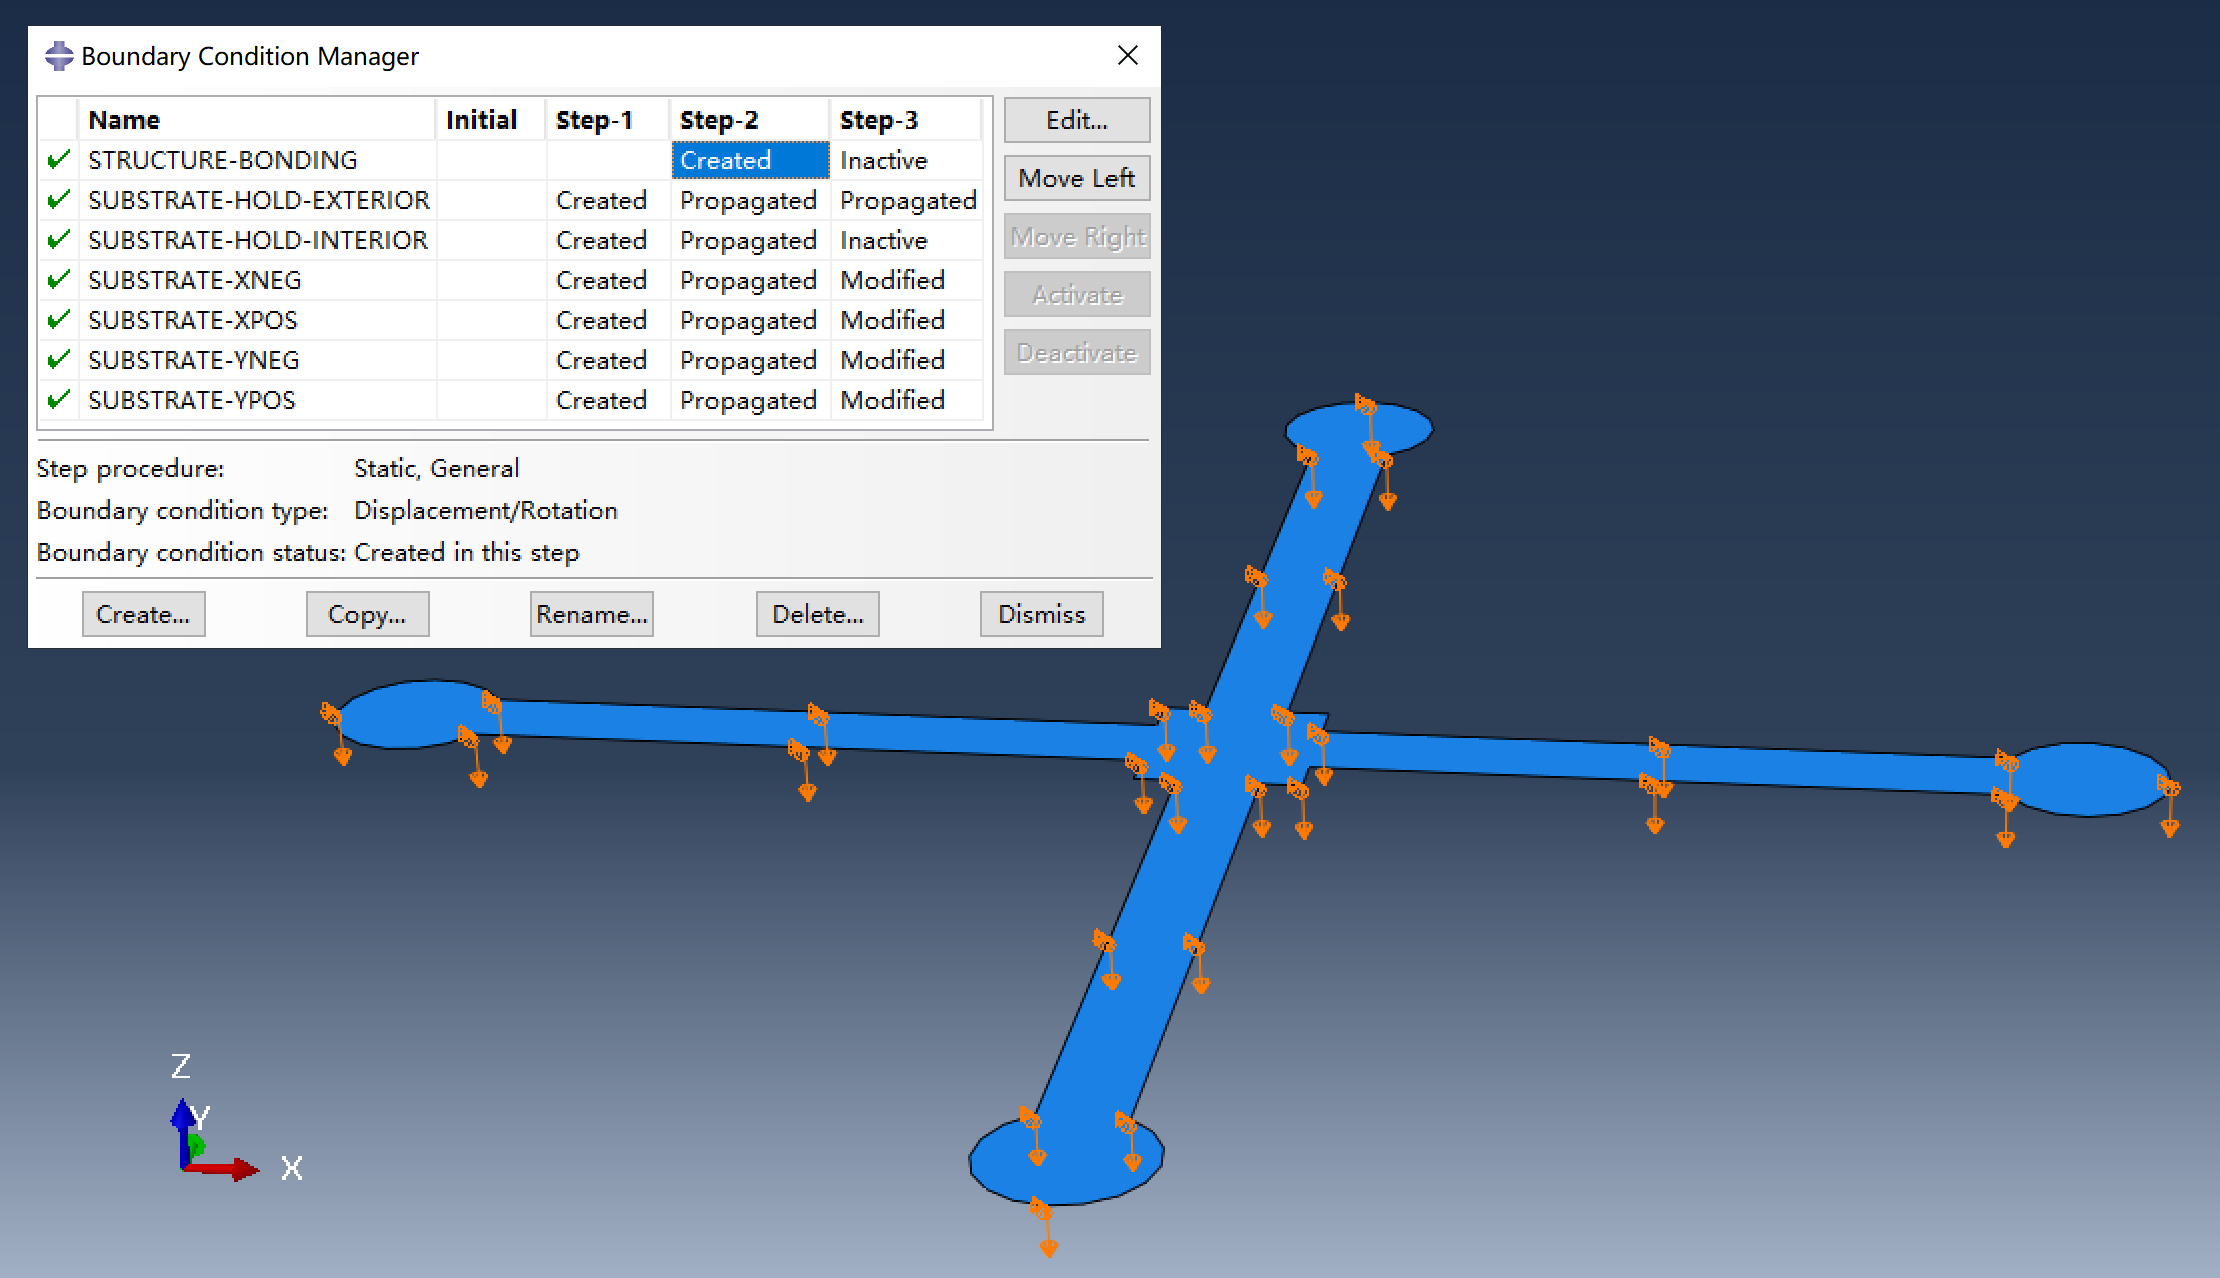
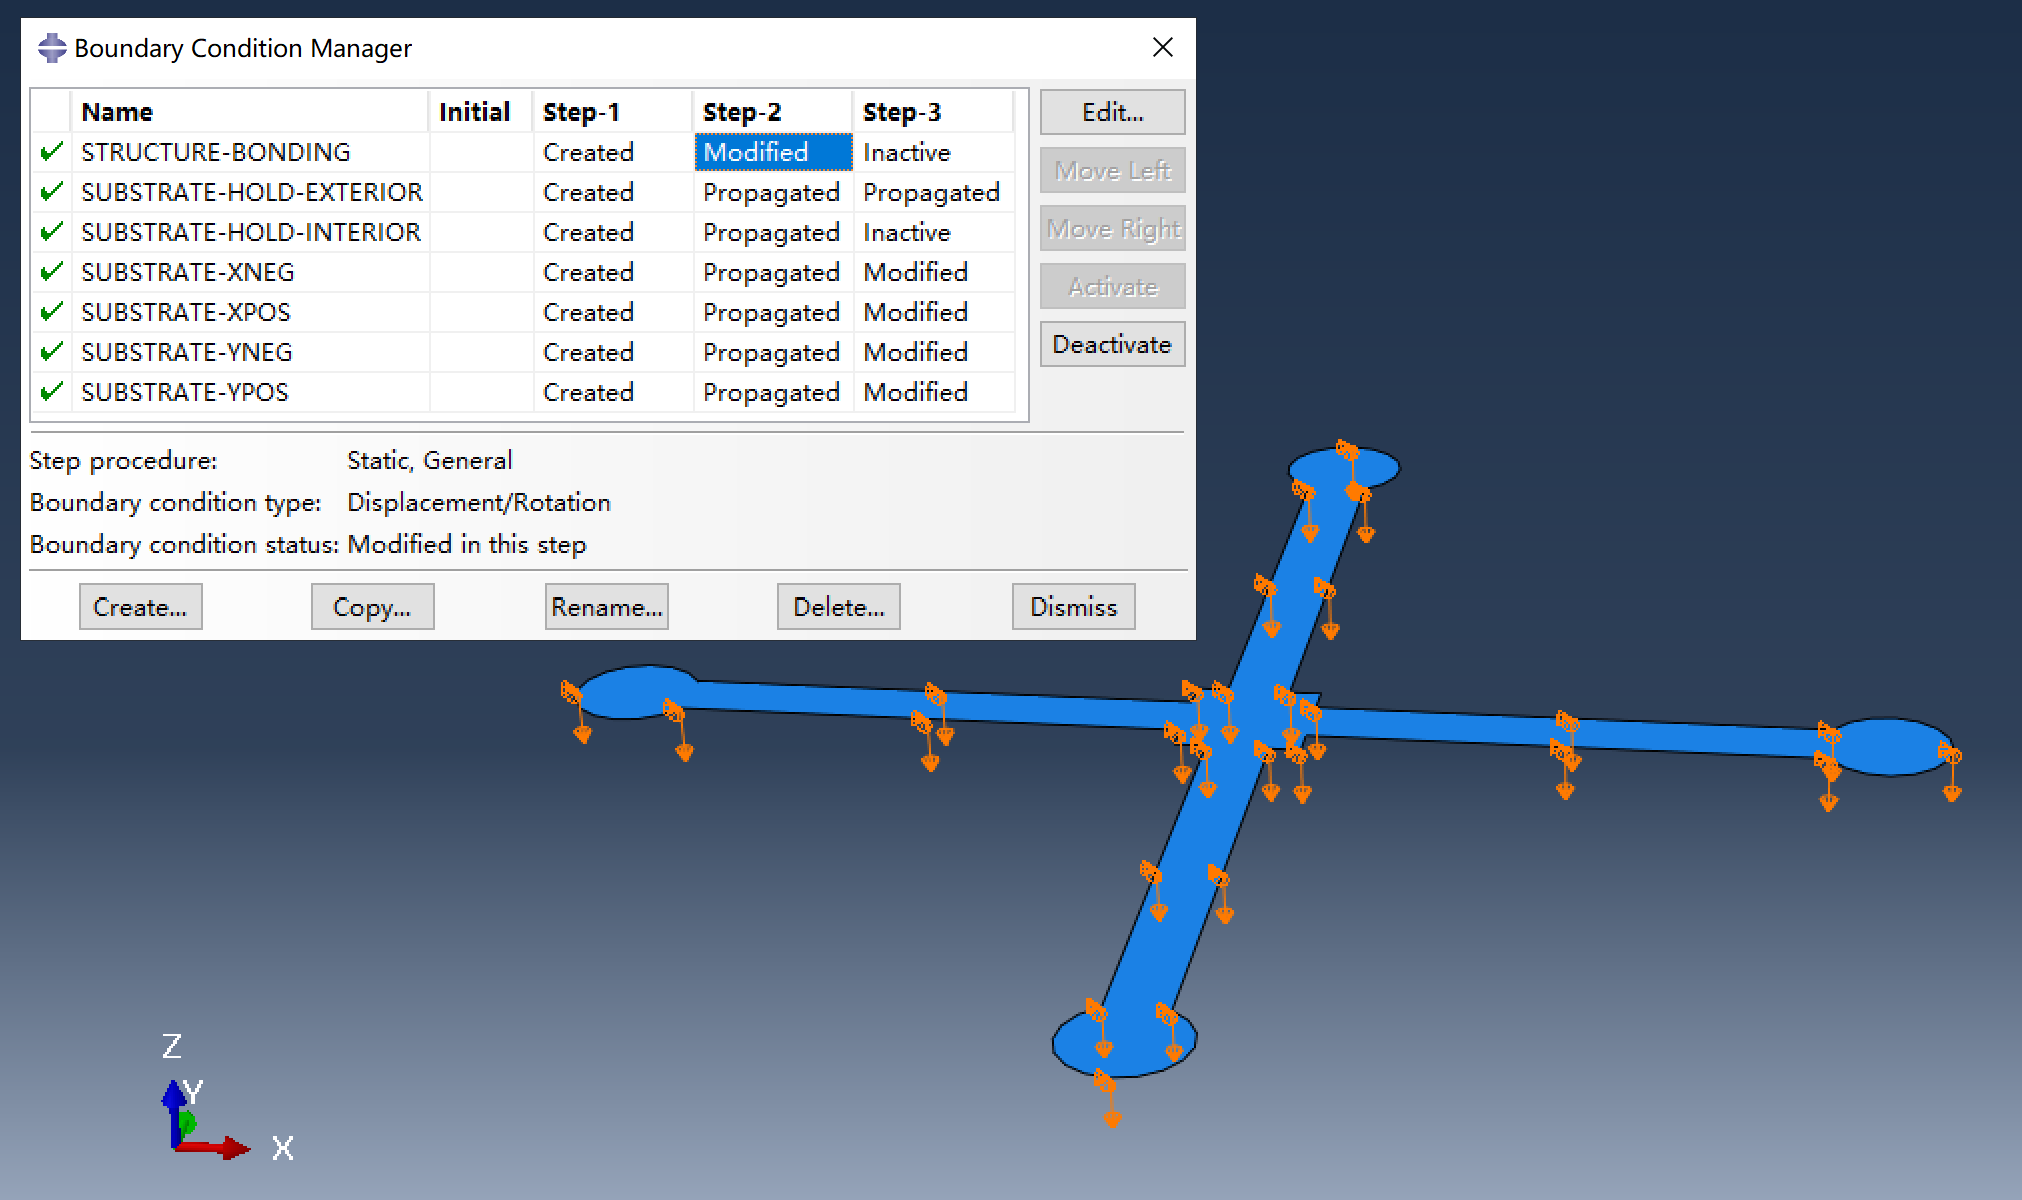
Fix missing boundary conditions for structure in Step-1

Changed region(s): [[0.0, 0.0, 0.997, 0.9867], [0.0623, 0.8633, 0.1246, 0.9867]]

diff --git a/with_substrate/main-with_substrate.py b/with_substrate/main-with_substrate.py
@@ -515,16 +515,22 @@ def M1120_create_bonding_disp_bc():
     substrate_yneg_disp_bc.setValuesInStep(stepName='Step-3', u2=0)
     substrate_ypos_disp_bc.setValuesInStep(stepName='Step-3', u2=0)
 
-    # In Step-2, position the structure onto the substrate to form contact.
-    # This BC is deactivated in Step-3 after contact is made.
+    # Apply boundary conditions to the structure:
+    # - Step-1: Hold the structure in place.
+    # - Step-2: Move the structure onto the substrate to establish contact.
+    # - Step-3: Deactivate this BC after contact is established.
     assembly.Set(
         name='FACES-STRUCTURE',
         faces=assembly.instances['STRUCTURE'].faces,
     )
     model.DisplacementBC(
         name='STRUCTURE-BONDING',
-        createStepName='Step-2',
+        createStepName='Step-1',
         region=assembly.sets['FACES-STRUCTURE'],
+        u1=0, u2=0, u3=0,
+    )
+    model.boundaryConditions['STRUCTURE-BONDING'].setValuesInStep(
+        stepName='Step-2',
         u1=0, u2=0, u3=-MY_INITIAL_SEPARATION,
     )
     model.boundaryConditions['STRUCTURE-BONDING'].deactivate('Step-3')
